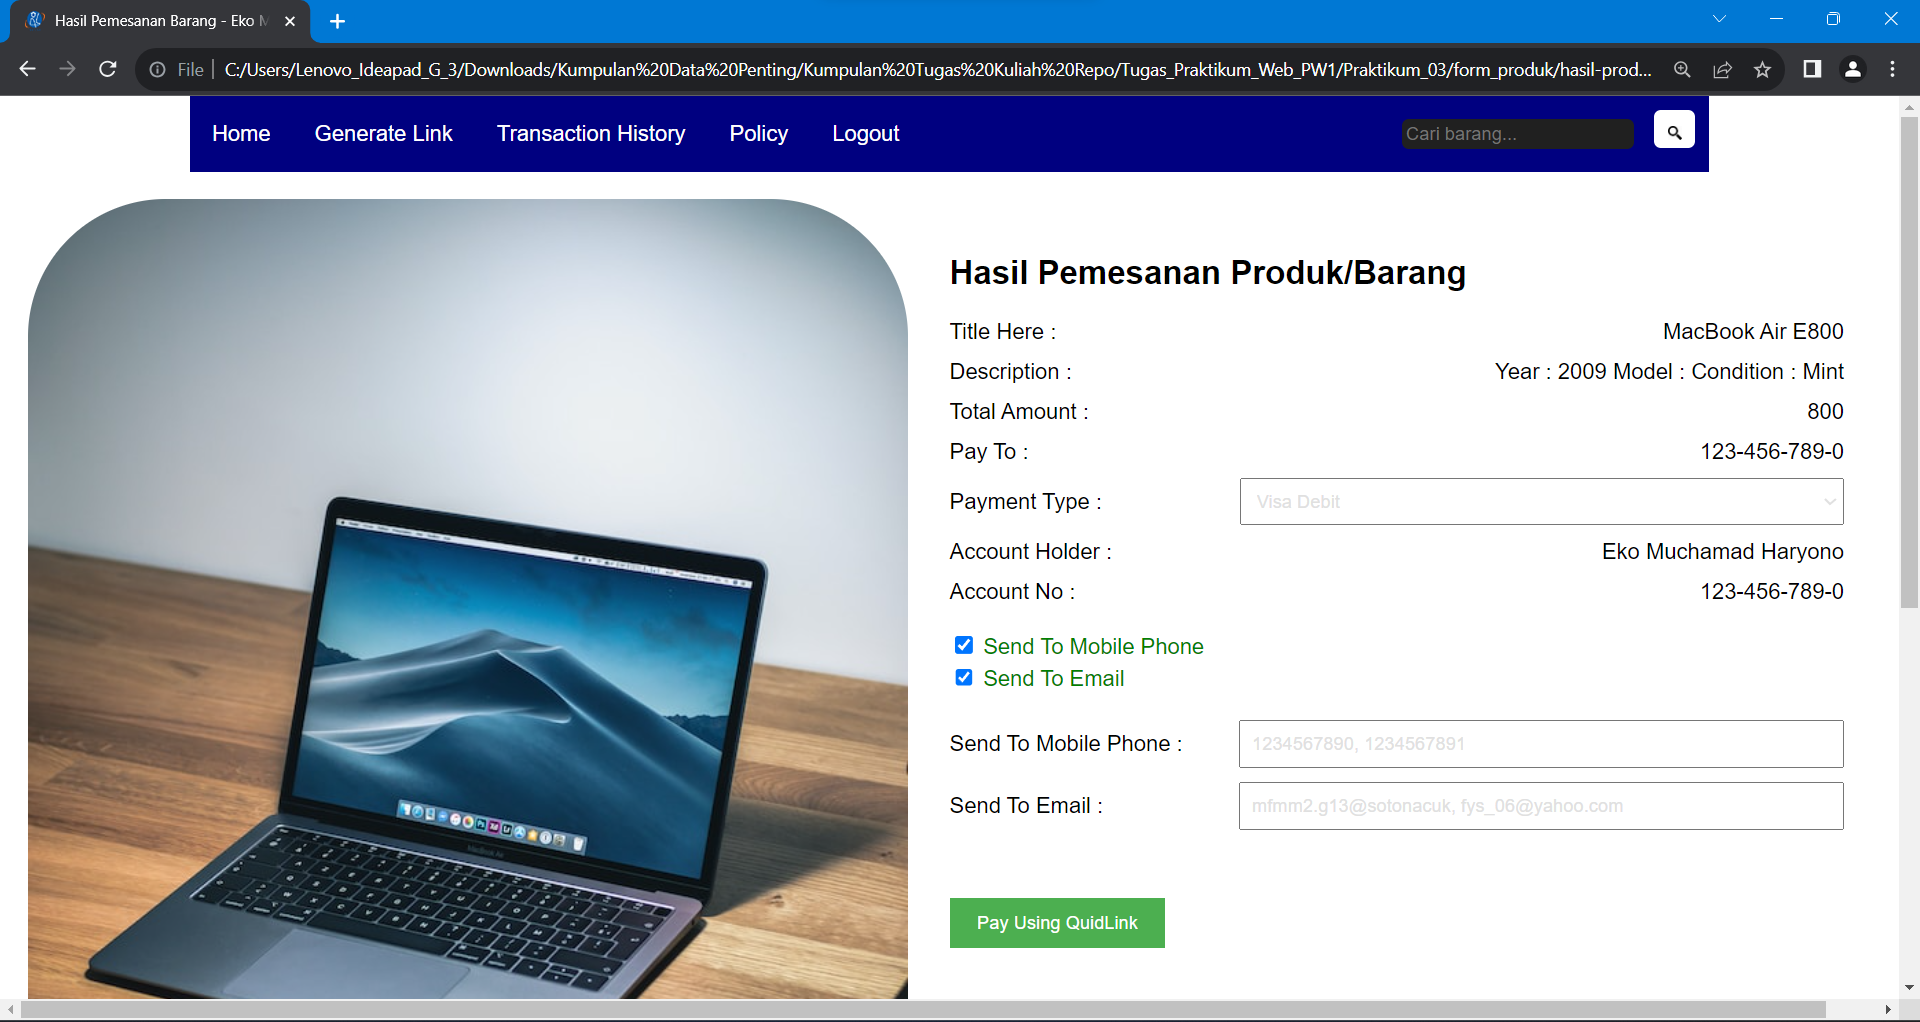
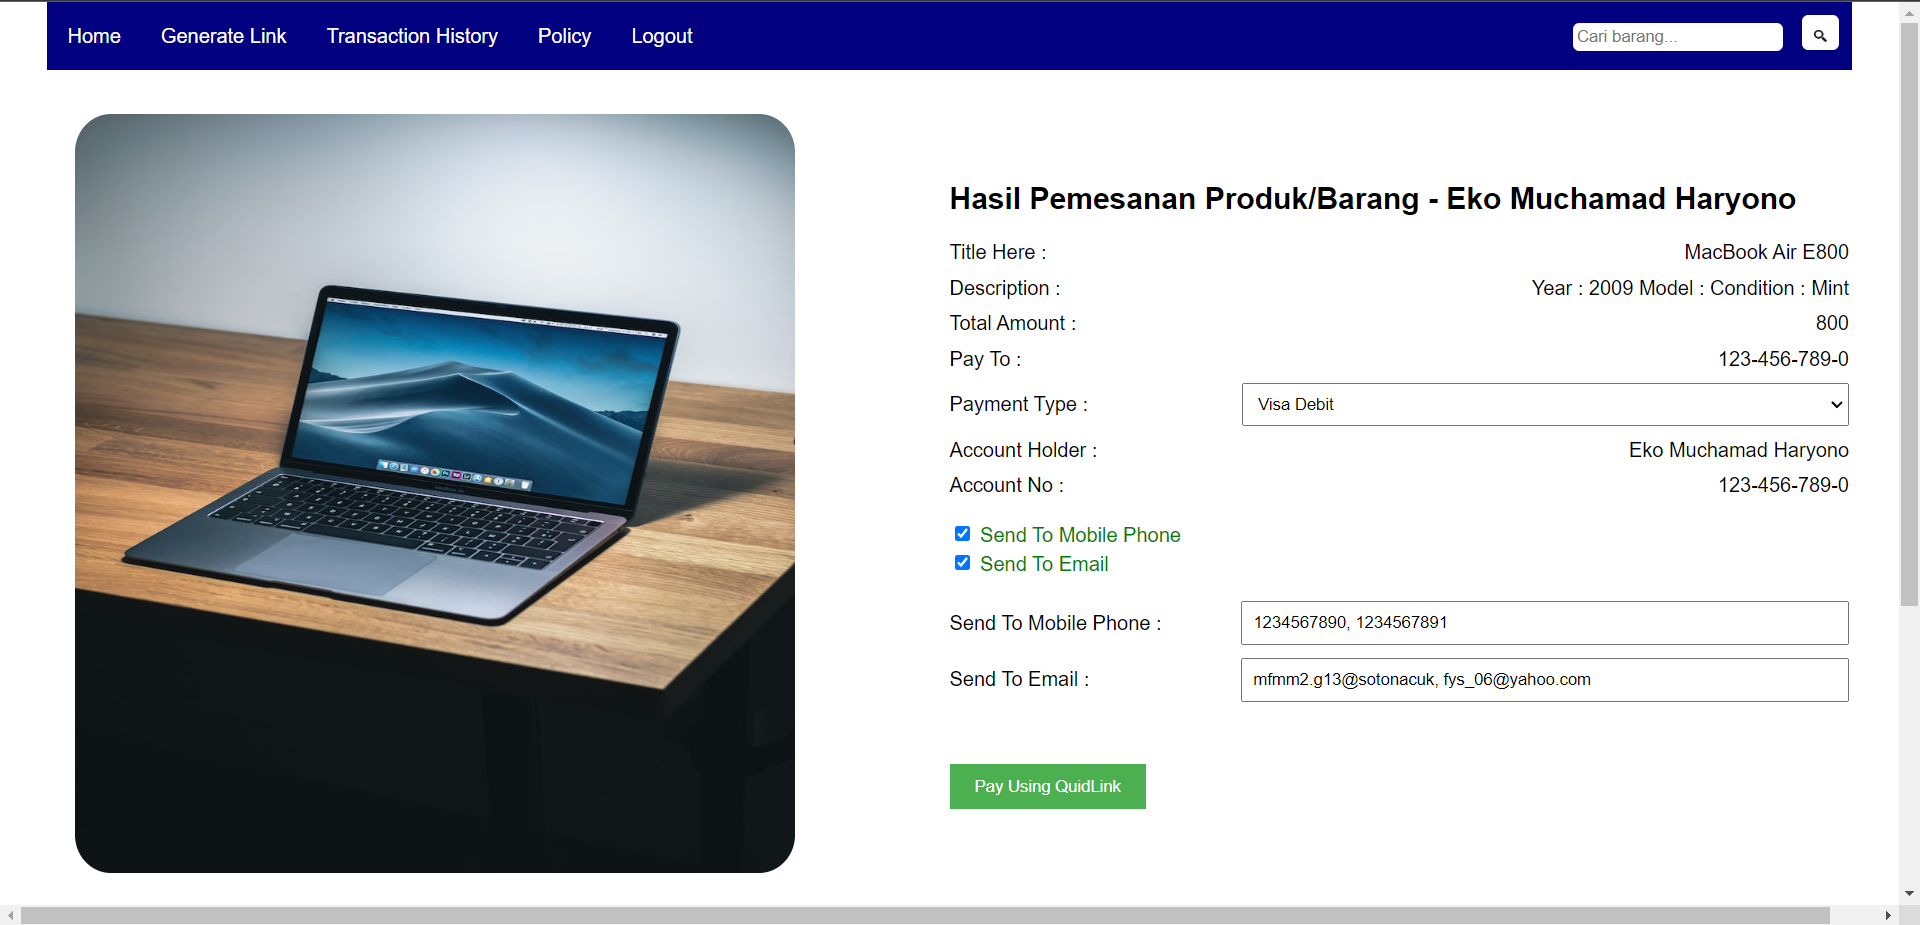
3.0. menyempurnakan tugas praktikum 3 - form & hasil

diff --git a/Praktikum_03/form_produk/form-produk.html b/Praktikum_03/form_produk/form-produk.html
@@ -12,13 +12,15 @@
     <meta name="viewport" content="width=device-width, initial-scale=1.0">
     <title>Form Pemesanan Barang/Produk - Eko Muchamad Haryono</title>
 
-     <!-- Favicon Lokal -->
-     <link rel="shortcut icon" href="assets/favicon/sttnf.ico">
-     <!-- Favicon Lokal -->
- 
+    <!-- Favicon Lokal -->
+    <link rel="shortcut icon" href="assets/favicon/sttnf.ico">
+    <!-- Favicon Lokal -->
+
 </head>
 
 <body style="font-family: Arial, sans-serif; margin: 0; padding: 0;">
+
+    <!-- Navbar -->
     <div style="background-color: #000080; overflow: hidden;">
         <a href="#"
             style="float: left; display: block; color: white; text-align: center; padding: 14px 16px; text-decoration: none;">Home</a>
@@ -33,20 +35,21 @@
         <a href="#"
             style="float: left; display: block; color: white; text-align: center; padding: 14px 16px; text-decoration: none;">Logout</a>
 
-            <div style="float: right; margin: 10px 10px;">
-                <input type="text" placeholder="Cari barang..."
-                    style="padding: 3px; margin-right: 10px; border: none; border-radius: 5px;">
-                <button
-                    style="background-color: white; color: black; border: none; padding: 2px 10px; border-radius: 5px; cursor: pointer;"><img
-                        src="assets/img/picture_ico/search.png" alt="Cari" width="10px" height="10px"
-                        style="padding-top: 10px;"></button>
-
-            </div>
-            
+        <div style="float: right; margin: 10px 10px;">
+            <input type="text" placeholder="Cari barang..."
+                style="padding: 3px; margin-right: 10px; border: none; border-radius: 5px;">
+            <button
+                style="background-color: white; color: black; border: none; padding: 2px 10px; border-radius: 5px; cursor: pointer;"><img
+                    src="assets/img/picture_ico/search.png" alt="Cari" width="10px" height="10px"
+                    style="padding-top: 10px;"></button>
+        </div>
     </div>
+    <!-- Navbar -->
 
     <div style="padding: 20px;">
         <div style="display: flex; align-items: center;">
+
+            <!-- Foto Form -->
             <div style="flex: 1;">
                 <img src="assets/img/form/ico_tambah_foto.png" alt="Gambar" style="width: 70%; height: auto;">
                 <div>
@@ -56,27 +59,30 @@
                     <input type="file" name="foto" id="foto" style="display: none;">
                 </div>
             </div>
+            <!-- Foto Form Barang/Produk -->
 
+            <!-- Form Barang/Produk -->
             <div style="flex: 1; padding: 20px;">
                 <h2>Form Pemesanan Produk/Barang - Eko Muchamad Haryono</h2>
                 <form action="hasil-produk.html">
                     <div style="margin-bottom: 10px; display: flex; align-items: center;">
                         <label for="nama" style="flex: 1;">Title Here :</label>
-                        <input type="text" id="nama" name="nama" style="flex: 2; padding: 8px;" placeholder="Nama Produk/Barang">
+                        <input type="text" id="nama" name="nama" style="flex: 2; padding: 8px;"
+                            placeholder="Nama Produk/Barang">
                     </div>
-                    
+
                     <div style="margin-bottom: 10px; display: flex; align-items: center;">
                         <label for="description" style="flex: 1;">Description :</label>
                         <textarea type="text" id="description" maxlength="400" style="flex: 2; padding: 8px;"
                             placeholder="Deskripsi Produk/Barang"></textarea>
                     </div>
-                    
+
                     <div style="margin-bottom: 10px; display: flex; align-items: center;">
                         <label for="account_number" style="flex: 1;">Account Number :</label>
                         <input type="number" id="account_number" name="account_number" style="flex: 2; padding: 8px;"
                             placeholder="Account Nomer">
                     </div>
-                    
+
                     <div style="margin-bottom: 10px; display: flex; align-items: center;">
                         <label for="bank" style="flex: 1;">Bank :</label>
                         <select style="flex: 2; padding: 8px;">
@@ -86,33 +92,33 @@
                             <option value="BNI">BNI</option>
                         </select>
                     </div>
-                    
+
                     <div style="margin-bottom: 10px; display: flex; align-items: center;">
                         <label for="transaction" style="flex: 1;">Transaction :</label>
                         <input type="number" id="transaction" name="transaction" style="width: 35px; padding: 8px;"
                             placeholder="Jml">
                     </div>
-                    
+
                     <div style="margin: 20px 20px 3px 0;">
                         <input type="checkbox" id="send_to_mobile_phone">
-                        <label for="send_to_mobile_phone" style="color: green;">Send To Mobile Phone</label>    
+                        <label for="send_to_mobile_phone" style="color: green;">Send To Mobile Phone</label>
                     </div>
                     <div style="margin: 2px 5px 20px 0;">
                         <input type="checkbox" id="send_to_email">
-                        <label for="send_to_email" style="color: green;">Send To Email</label>    
+                        <label for="send_to_email" style="color: green;">Send To Email</label>
                     </div>
                     <div style="margin-bottom: 10px; display: flex; align-items: center;">
                         <label for="send_to_mobile_phone" style="flex: 1;">Send To Mobile Phone :</label>
-                        <input type="number" id="send_to_mobile_phone" name="send_to_mobile_phone" style="flex: 2; padding: 8px;"
-                            placeholder="Account Nomer">
+                        <input type="number" id="send_to_mobile_phone" name="send_to_mobile_phone"
+                            style="flex: 2; padding: 8px;" placeholder="Account Nomer">
                     </div>
-                    
+
                     <div style="margin-bottom: 10px; display: flex; align-items: center;">
                         <label for="send_to_email" style="flex: 1;">Send To Email :</label>
                         <input type="number" id="send_to_email" name="send_to_email" style="flex: 2; padding: 8px;"
                             placeholder="Account Nomer">
                     </div>
-                    
+
                     <div style="margin-top: 50px;">
                         <button type="submit"
                             style="background-color: #4caf50; color: white; border: none; padding: 10px 20px; cursor: pointer;">Generate
@@ -121,15 +127,16 @@
                 </form>
 
             </div>
-        </div>
+            <!-- Form Barang/Produk -->
 
+        </div>
     </div>
 
-        <!-- Footer Keranjangan  -->
-        <div style="background-color: #000080; color: #fff; text-align: center; padding: 20px; bottom: 0; width: 100%;">
-            <p>Hak Cipta © 2023 - Eko Muchamad Haryono</p>
-        </div>
-        <!-- Footer Keranjangan  -->
+    <!-- Footer Keranjangan  -->
+    <div style="background-color: #000080; color: #fff; text-align: center; padding: 20px; bottom: 0; width: 100%;">
+        <p>Hak Cipta © 2023 - Eko Muchamad Haryono</p>
+    </div>
+    <!-- Footer Keranjangan  -->
 </body>
 
 </html>

diff --git a/Praktikum_03/form_produk/hasil-produk.html b/Praktikum_03/form_produk/hasil-produk.html
@@ -2,7 +2,7 @@
 <!-- TI - 02 -->
 <!-- Teknik Informatika -->
 <!-- Pemograman Web 1 (PW1) -->
-<!-- Tema : Membuat Hasil Pemesanan Barang/Produk  -->
+<!-- Tema : Membuat Hasil Form Pemesanan Barang/Produk  -->
 
 <!DOCTYPE html>
 <html lang="en">
@@ -19,8 +19,10 @@
 
 
 <body style="font-family: Arial, sans-serif; margin: 0; padding: 0;">
+
+    <!-- Navbar -->
     <center>
-        <div style="background-color: #000080; overflow: hidden; width: 80%;">
+        <div style="background-color: #000080; overflow: hidden; width: 95%;">
             <a href="#"
                 style="float: left; display: block; color: white; text-align: center; padding: 18px 16px; text-decoration: none;">Home</a>
             <a href="#"
@@ -45,15 +47,20 @@
             </div>
         </div>
     </center>
+    <!-- Navbar -->
 
-    <div style="padding: 20px;">
+    <div style="padding: 20px; margin-top: 15px;">
         <div style="display: flex; align-items: right;">
+            
+            <!-- Foto Barang/Produk -->
             <div style="flex: 1;">
                 <img src="assets/img/form/macbook.jpg" alt="Gambar"
-                    style="width: auto; height: auto; border-radius: 100px;">
+                    style="margin-left: 20px;  border-radius: 5%; width: 80%; height: 70%;">
             </div>
+            <!-- Foto Barang/Produk -->
 
-            <div style="flex: 1; padding: 20px;">
+            <!-- Form Barang/Produk -->
+            <div style="flex: 1; padding: 20px; margin-top: 15px;">
                 <h2>Hasil Pemesanan Produk/Barang - Eko Muchamad Haryono</h2>
                 <form action="#">
                     <div style="margin-bottom: 10px; display: flex; align-items: center;">
@@ -130,10 +137,10 @@
                 </form>
 
             </div>
+            <!-- Form Barang/Produk -->
+
         </div>
-
-
-
+                    
     </div>
     <!-- Footer Keranjangan  -->
     <div style="background-color: #000080; color: #fff; text-align: center; padding: 20px; bottom: 0; width: 100%;">
